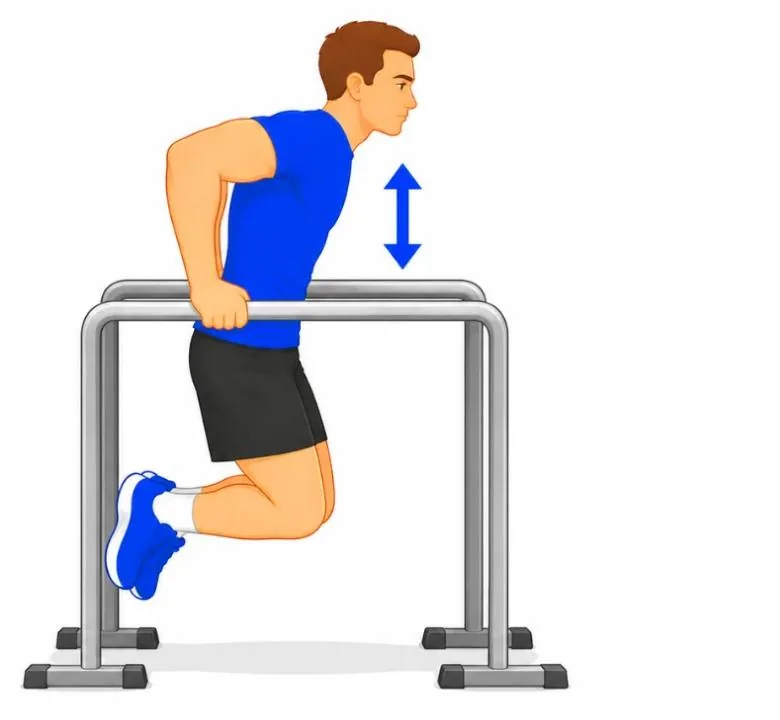
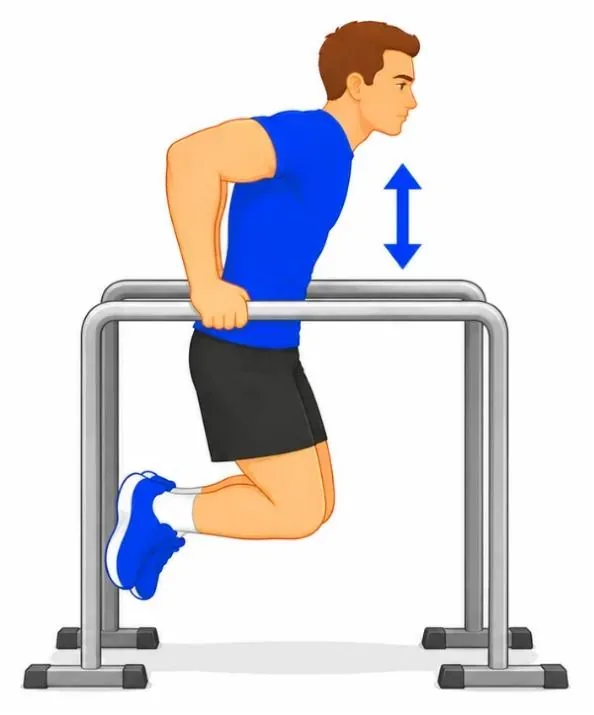
Illustrations : gériatrie (obstacles, ramasser un objet, équilibre yeux fermés) ; recadrage des dessins
Claude-Session: https://claude.ai/code/session_018AWAZ1MpJvcBPh4fA7edub

diff --git a/assets/modeles-base.js b/assets/modeles-base.js
@@ -14927,7 +14927,7 @@ export const MODELES_BASE = [
 "id": "GERIA_03",
 "source": "CABINET",
 "nom": "Équilibre yeux fermés près d'une chaise",
-"image": "",
+"image": "/exercises/images/geriatrie/equilibre-yeux-fermes-chaise-f.webp",
 "consignes": [
 "Debout derrière une chaise stable, mains au-dessus du dossier sans le toucher",
 "Pieds écartés à largeur de bassin, trouver l'équilibre",
@@ -14948,7 +14948,7 @@ export const MODELES_BASE = [
 "id": "GERIA_01",
 "source": "CABINET",
 "nom": "Marche avec obstacles",
-"image": "",
+"image": "/exercises/images/geriatrie/marche-obstacles-f.webp",
 "consignes": [
 "Poser au sol 4 à 5 petits obstacles (livres, bâtons) tous les 2 pas",
 "Marcher en enjambant chaque obstacle, genou bien levé",
@@ -15099,7 +15099,7 @@ export const MODELES_BASE = [
 "id": "GERIA_02",
 "source": "CABINET",
 "nom": "Ramasser un objet au sol",
-"image": "",
+"image": "/exercises/images/geriatrie/ramasser-objet-f.webp",
 "consignes": [
 "Debout, une main sur le dossier d'une chaise stable",
 "Un objet léger posé au sol à côté du pied",
@@ -16244,7 +16244,7 @@ export const MODELES_BASE = [
 "id": "GERIA_01",
 "source": "CABINET",
 "nom": "Marche avec obstacles",
-"image": "",
+"image": "/exercises/images/geriatrie/marche-obstacles-f.webp",
 "consignes": [
 "Poser au sol 4 à 5 petits obstacles (livres, bâtons) tous les 2 pas",
 "Marcher en enjambant chaque obstacle, genou bien levé",
@@ -24194,7 +24194,7 @@ export const MODELES_BASE = [
 "id": "GERIA_03",
 "source": "CABINET",
 "nom": "Équilibre yeux fermés près d'une chaise",
-"image": "",
+"image": "/exercises/images/geriatrie/equilibre-yeux-fermes-chaise-f.webp",
 "consignes": [
 "Debout derrière une chaise stable, mains au-dessus du dossier sans le toucher",
 "Pieds écartés à largeur de bassin, trouver l'équilibre",
@@ -24478,7 +24478,7 @@ export const MODELES_BASE = [
 "id": "GERIA_03",
 "source": "CABINET",
 "nom": "Équilibre yeux fermés près d'une chaise",
-"image": "",
+"image": "/exercises/images/geriatrie/equilibre-yeux-fermes-chaise-f.webp",
 "consignes": [
 "Debout derrière une chaise stable, mains au-dessus du dossier sans le toucher",
 "Pieds écartés à largeur de bassin, trouver l'équilibre",
@@ -28082,7 +28082,7 @@ export const MODELES_BASE = [
 "id": "GERIA_02",
 "source": "CABINET",
 "nom": "Ramasser un objet au sol",
-"image": "",
+"image": "/exercises/images/geriatrie/ramasser-objet-f.webp",
 "consignes": [
 "Debout, une main sur le dossier d'une chaise stable",
 "Un objet léger posé au sol à côté du pied",
@@ -28258,7 +28258,7 @@ export const MODELES_BASE = [
 "id": "GERIA_01",
 "source": "CABINET",
 "nom": "Marche avec obstacles",
-"image": "",
+"image": "/exercises/images/geriatrie/marche-obstacles-f.webp",
 "consignes": [
 "Poser au sol 4 à 5 petits obstacles (livres, bâtons) tous les 2 pas",
 "Marcher en enjambant chaque obstacle, genou bien levé",

diff --git a/outils/illustrations/save_img.py b/outils/illustrations/save_img.py
@@ -7,6 +7,9 @@ d=os.path.join(R,'exercises/images',os.path.dirname(name)); os.makedirs(d,exist_
 paths={}
 for src,suf in ((h,'h'),(f,'f')):
     im=Image.open(src).convert('RGB')
+    from PIL import ImageChops
+    bb=ImageChops.difference(im,Image.new('RGB',im.size,'white')).point(lambda v:255 if v>30 else 0).getbbox()
+    if bb: im=im.crop((max(0,bb[0]-24),max(0,bb[1]-24),min(im.width,bb[2]+24),min(im.height,bb[3]+24)))
     p=f'/exercises/images/{name}-{suf}.webp'; im.save(R+p,'WEBP',quality=82,method=6); paths[suf]=p
     print(p, os.path.getsize(R+p), im.size)
 base=paths['f']
